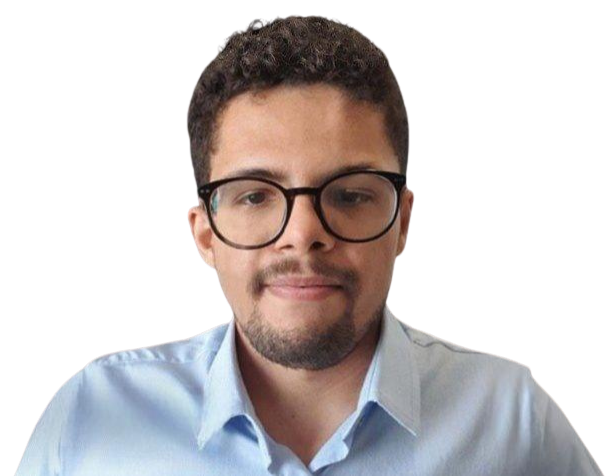
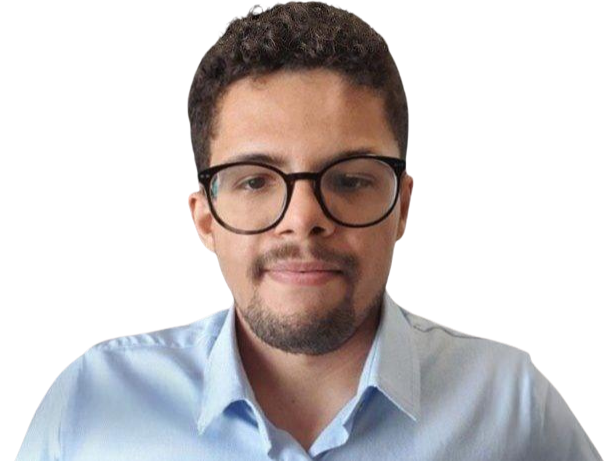
estilização do slider2

diff --git a/site-vira/styles/Slider2.module.scss b/site-vira/styles/Slider2.module.scss
@@ -1,15 +1,25 @@
 .faceContainer {
-    position: relative;
-    width: 500px; /* Defina para a largura desejada */
-    height: 500px; /* Defina para a altura desejada */
+  position: relative;
+    width: 100%; /* Defina para a largura desejada */
+    height: 25em; /* Defina para a altura desejada */
   }
   
   .faceImage {
     position: absolute;
     top: 0;
-    left: 0;
-    width: 100%;
-    height: 100%;
+    left: 33%;
+    width: 30em;
+    height: auto;
+    object-fit: cover;
+    transition: clip-path 0.1s ease-in-out;
+  }
+
+  .faceImage2 {
+    position: absolute;
+    top: 0;
+    left: 33%;
+    width: 32em;
+    height: auto;
     object-fit: cover;
     transition: clip-path 0.1s ease-in-out;
   }

diff --git a/site-vira/pages/index.jsx b/site-vira/pages/index.jsx
@@ -1,14 +1,14 @@
 import Card from '../components/Card';
 import styles from '../styles/Index.module.scss';
 import Layout from '../components/Layout';
-import Slider from '../components/Slider';
+import Slider2 from '../components/Slider2';
 
 export default function Home() {
   return (
     <>
       <Layout>
         <section className={styles.apresentacao}>
-          <Slider />
+          <Slider2 />
         </section>
           <section className={styles.destaques}>
               <div className={styles.divisoria}>

diff --git a/site-vira/components/Slider2.jsx b/site-vira/components/Slider2.jsx
@@ -24,7 +24,7 @@ function Slider2() {
       />
       <img
         src="./victor_costa_completo.png"
-        className="face-image"
+        className={styles.faceImage2}
         style={{ clipPath: `inset(0 0 0 ${clipPath})` }}
         alt="Face"
       />

diff --git a/site-vira/styles/Index.module.scss b/site-vira/styles/Index.module.scss
@@ -5,6 +5,8 @@
     display: flex;
     flex-direction: column;
     width: 100%;
+   /*  justify-content: center; */
+    align-items: center;
 }
 
 .destaques {
